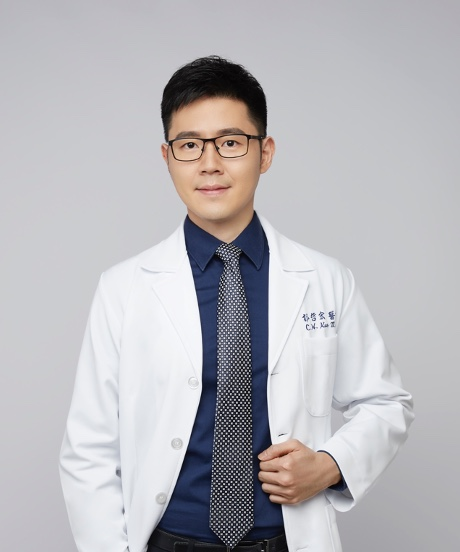
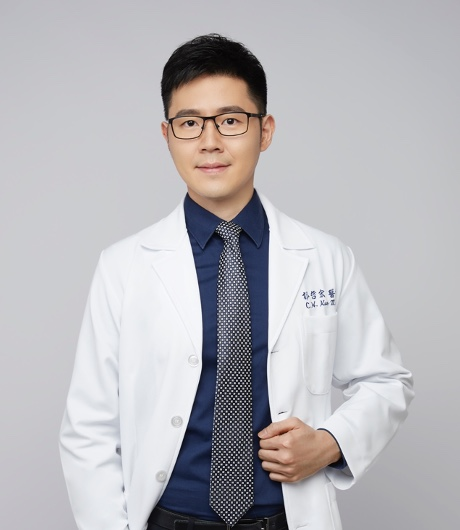
Hero: larger rings, warm band, tighter head margin

diff --git a/static/style.css b/static/style.css
@@ -65,29 +65,29 @@ h1, h2, h3, h4 { line-height: 1.3; margin: 0 0 .5em; font-weight: 700; letter-sp
 .hero::before { content: ""; position: absolute; inset: 0; z-index: -1; pointer-events: none; background:
   radial-gradient(circle at 8% 18%, rgba(15, 110, 140, .20), transparent 38%),
   radial-gradient(circle at 60% 120%, rgba(15, 110, 140, .16), transparent 42%),
-  linear-gradient(112deg, transparent 46%, rgba(15, 110, 140, .07) 46%, rgba(15, 110, 140, .07) 60%, transparent 60%),
+  linear-gradient(112deg, transparent 46%, rgba(222, 140, 70, .13) 46%, rgba(222, 140, 70, .13) 60%, transparent 60%),
   radial-gradient(rgba(15, 110, 140, .16) 1.2px, transparent 1.4px) 0 0 / 22px 22px; }
-.hero::after { content: ""; position: absolute; z-index: -1; pointer-events: none; left: -90px; bottom: -120px; width: 320px; height: 320px; border-radius: 50%;
-  border: 1.5px solid rgba(15, 110, 140, .22); box-shadow: 0 0 0 40px rgba(15, 110, 140, .05), 0 0 0 41.5px rgba(15, 110, 140, .16), 0 0 0 90px rgba(15, 110, 140, .04); }
+.hero::after { content: ""; position: absolute; z-index: -1; pointer-events: none; left: -140px; bottom: -190px; width: 480px; height: 480px; border-radius: 50%;
+  border: 1.5px solid rgba(15, 110, 140, .22); box-shadow: 0 0 0 60px rgba(15, 110, 140, .05), 0 0 0 61.5px rgba(15, 110, 140, .16), 0 0 0 130px rgba(15, 110, 140, .04), 0 0 0 131.5px rgba(15, 110, 140, .10); }
 .hero-inner { display: grid; grid-template-columns: 1fr; align-items: end; gap: 0 24px; position: relative; }
 .hero-text { padding: 20px 0 28px; order: 2; }
 .hero-text h1 { font-size: clamp(1.75rem, 6vw, 2.9rem); margin: 0; color: #12202b; }
 .hero-sub { margin: .1em 0 .5em; font-size: clamp(1.05rem, 3.4vw, 1.45rem); font-weight: 600; color: #0b4f66; display: inline-block; position: relative; }
 .hero-sub::after { content: ""; display: block; height: 4px; width: 56px; margin-top: 6px; border-radius: 2px; background: linear-gradient(90deg, #0f6e8c, #5fc0dc); }
 .hero-tagline { margin: 0; max-width: 34rem; font-size: clamp(.95rem, 2.6vw, 1.05rem); color: #3e4c58; }
-.hero-img { order: 1; justify-self: center; height: min(300px, 68vw); width: auto; max-width: 100%; object-fit: contain; object-position: bottom; margin-top: 20px;
+.hero-img { order: 1; justify-self: center; height: min(300px, 68vw); width: auto; max-width: 100%; object-fit: contain; object-position: bottom; margin-top: 6px;
   /* 邊緣淡出，讓照片本身的灰底融入 HERO 背景 */
-  -webkit-mask-image: linear-gradient(to right, transparent, #000 20%, #000 80%, transparent), linear-gradient(to bottom, transparent, #000 14%, #000 84%, transparent);
+  -webkit-mask-image: linear-gradient(to right, transparent, #000 20%, #000 80%, transparent), linear-gradient(to bottom, transparent, #000 5%, #000 84%, transparent);
   -webkit-mask-composite: source-in;
-  mask-image: linear-gradient(to right, transparent, #000 20%, #000 80%, transparent), linear-gradient(to bottom, transparent, #000 14%, #000 84%, transparent);
+  mask-image: linear-gradient(to right, transparent, #000 20%, #000 80%, transparent), linear-gradient(to bottom, transparent, #000 5%, #000 84%, transparent);
   mask-composite: intersect; }
 @media (min-width: 720px) {
   .hero-inner { grid-template-columns: 1fr auto; height: var(--hero-h); }
   .hero-text { order: 1; align-self: center; padding: 28px 0; }
-  .hero-img { order: 2; justify-self: end; align-self: end; height: calc(var(--hero-h) - 20px); width: auto; max-width: 42vw; margin-top: 20px; object-position: right bottom;
-    -webkit-mask-image: linear-gradient(to right, transparent, #000 22%, #000 90%, transparent), linear-gradient(to bottom, transparent, #000 16%, #000 90%, transparent);
+  .hero-img { order: 2; justify-self: end; align-self: end; height: calc(var(--hero-h) - 8px); width: auto; max-width: 42vw; margin-top: 8px; object-position: right bottom;
+    -webkit-mask-image: linear-gradient(to right, transparent, #000 22%, #000 90%, transparent), linear-gradient(to bottom, transparent, #000 5%, #000 90%, transparent);
     -webkit-mask-composite: source-in;
-    mask-image: linear-gradient(to right, transparent, #000 22%, #000 90%, transparent), linear-gradient(to bottom, transparent, #000 16%, #000 90%, transparent);
+    mask-image: linear-gradient(to right, transparent, #000 22%, #000 90%, transparent), linear-gradient(to bottom, transparent, #000 5%, #000 90%, transparent);
     mask-composite: intersect; }
 }
 /* 照片本身是淺灰底，HERO 在深色模式也維持淺色，讓照片邊緣自然融入 */
